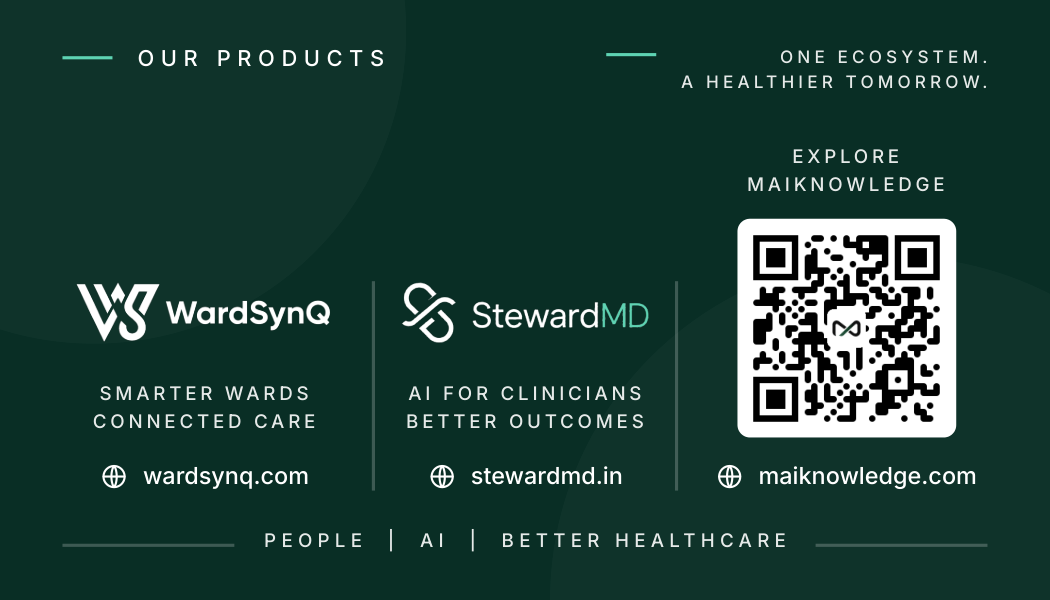
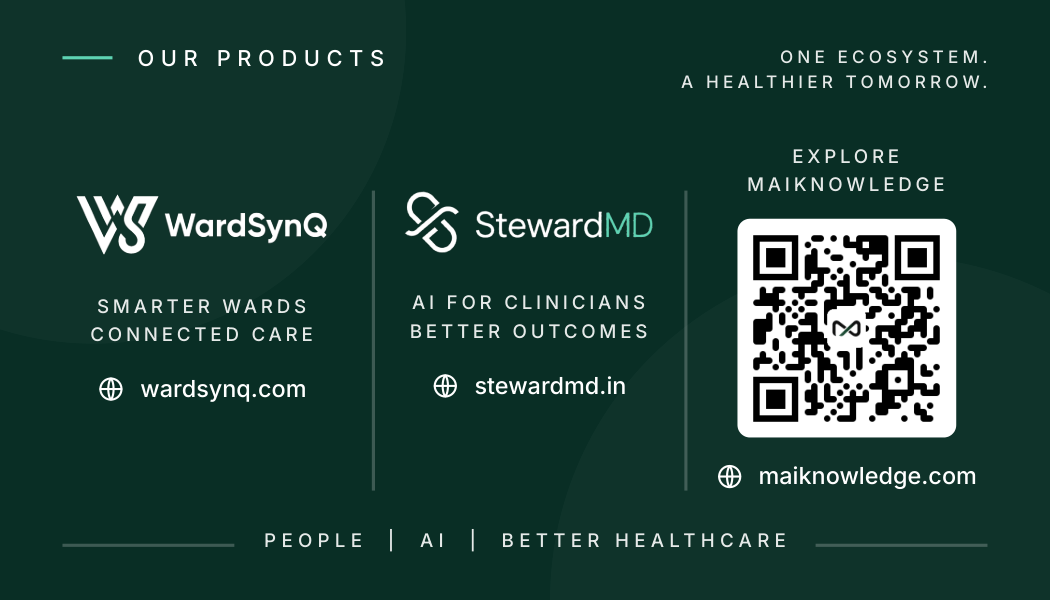
Sync card with latest artifact-editor save
No visual change: the editor wrote its own width/height freeze
attributes on unchanged elements when the card was last opened.
Rebuilt PDF and proofs from that saved state for the record.

Claude-Session: https://claude.ai/code/session_01P89aEHphTH9JvdqMgooiyC

diff --git a/vault/legal-assets/business-card/artboards/Back.dc.html b/vault/legal-assets/business-card/artboards/Back.dc.html
@@ -22,14 +22,15 @@
       <div style="font-size: 7px; font-weight: 500; letter-spacing: 0.3em; text-transform: uppercase; line-height: 9px; color: #ffffff; margin-right: -2.1px;">Our Products</div>
     </div>
     <div style="display: flex; flex-direction: row; align-items: flex-start; gap: 8px; margin-top: -0.8px;">
-      <div style="width: 16px; height: 1px; background: #5FD3B3; margin-top: 1.4px;"></div>
-      <div style="font-size: 5.5px; font-weight: 500; letter-spacing: 0.24em; text-transform: uppercase; line-height: 8px; color: #ffffff; text-align: right; white-space: pre-line; opacity: 0.9; margin-right: -1.32px;">One ecosystem.
+      
+      <div style="font-size: 5.5px; font-weight: 500; letter-spacing: 0.24em; text-transform: uppercase; line-height: 8px; color: #ffffff; text-align: right; white-space: pre-line; opacity: 0.9; margin-right: -1.32px; width: 165px; height: 14px">One ecosystem.
 A healthier tomorrow.</div>
     </div>
   </div>
+  
   <div style="position: relative; flex-grow: 1; display: flex; flex-direction: column; justify-content: center;">
     <div style="display: grid; grid-template-columns: repeat(3, minmax(0, 1fr)); gap: 0px; align-items: end;">
-      <div style="display: flex; flex-direction: column; align-items: center; text-align: center; padding: 0 8px 0 0;">
+      <div style="display: flex; flex-direction: column; align-items: center; text-align: center; padding: 0 8px 0 0; width: 89px; height: 95px">
         <img src="wardsynq-white.png" alt="WardSynQ" style="height: 20px; width: auto; display: block; margin-bottom: 12px;">
         <div style="font-size: 6px; font-weight: 500; letter-spacing: 0.2em; text-transform: uppercase; line-height: 9px; color: #ffffff; opacity: 0.9; white-space: pre-line; margin-right: -1.2px;">Smarter Wards
 Connected Care</div>
@@ -38,7 +39,7 @@ Connected Care</div>
           <span style="font-size: 7.5px; font-weight: 500; line-height: 9px; color: #ffffff;">wardsynq.com</span>
         </div>
       </div>
-      <div style="display: flex; flex-direction: column; align-items: center; text-align: center; padding: 0 8px; border-left: 1px solid rgba(255,255,255,0.22); border-right: 1px solid rgba(255,255,255,0.22);">
+      <div style="display: flex; flex-direction: column; align-items: center; text-align: center; padding: 0 8px; border-left: 1px solid rgba(255,255,255,0.22); border-right: 1px solid rgba(255,255,255,0.22); width: 83px; height: 96px">
         <img src="stewardmd-dark.png" alt="StewardMD" style="height: 20px; width: auto; display: block; margin-bottom: 12px;">
         <div style="font-size: 6px; font-weight: 500; letter-spacing: 0.2em; text-transform: uppercase; line-height: 9px; color: #ffffff; opacity: 0.9; white-space: pre-line; margin-right: -1.2px;">AI for Clinicians
 Better Outcomes</div>
@@ -59,8 +60,7 @@ MaiKnowledge</div>
         </div>
       </div>
     </div>
-  </div>
-  <div style="position: relative; display: flex; flex-direction: row; align-items: center; gap: 10px; height: 8px;">
+  </div><div style="position: relative; display: flex; flex-direction: row; align-items: center; gap: 10px; height: 8px;">
     <div style="flex-grow: 1; height: 1px; background: rgba(255,255,255,0.22);"></div>
     <div style="font-size: 6px; font-weight: 500; letter-spacing: 0.28em; text-transform: uppercase; line-height: 8px; color: #ffffff; opacity: 0.9; margin-right: -1.68px;">People &nbsp;|&nbsp; AI &nbsp;|&nbsp; Better Healthcare</div>
     <div style="flex-grow: 1; height: 1px; background: rgba(255,255,255,0.22);"></div>

diff --git a/vault/legal-assets/business-card/artboards/Main.dc.html b/vault/legal-assets/business-card/artboards/Main.dc.html
@@ -15,12 +15,12 @@
 </helmet>
 <div style="position: relative; width: 336px; height: 192px; box-sizing: border-box; padding: 18px 20px 14px 20px; background: #ffffff; color: #111111; overflow: hidden; display: flex; flex-direction: column; align-items: stretch;">
   <img src="infinity.png" alt="" style="position: absolute; right: -22px; top: 74px; width: 151px; height: auto; opacity: 0.08; display: block; pointer-events: none;">
-  <div style="position: relative; display: flex; flex-direction: row; justify-content: space-between; align-items: flex-start; height: 32px;">
+  <div style="position: relative; display: flex; flex-direction: row; justify-content: space-between; align-items: flex-start; height: 38px; width: 300px">
     <div style="position: relative; width: 240px; height: 32px;">
-      <img src="maik.png" alt="MaiK" style="position: absolute; left: 0; bottom: 0; height: 32px; width: auto; display: block;">
+      <img src="maik.png" alt="MaiK" style="position: absolute; left: 0; bottom: 0px; height: 32px; width: auto; display: block">
       <div style="position: absolute; left: 101px; bottom: -6.7px; display: flex; flex-direction: row; align-items: baseline; gap: 4px; white-space: nowrap;">
-        <span style="font-family: 'Dancing Script', 'Brush Script MT', 'Segoe Script', cursive; font-weight: 400; font-size: 38px; line-height: 38px; color: #1D5FB4; letter-spacing: -0.005em;">nowledge</span>
-        <span style="font-size: 7px; font-weight: 500; letter-spacing: 0.16em; line-height: 7px; color: #111111;">LLP</span>
+        
+        <span style="font-family: 'Dancing Script', 'Brush Script MT', 'Segoe Script', cursive; font-weight: 400; font-size: 38px; line-height: 38px; color: #1D5FB4; letter-spacing: -0.005em;">nowledge</span><span style="font-size: 7px; font-weight: 500; letter-spacing: 0.16em; line-height: 7px; color: #111111;">LLP</span>
       </div>
     </div>
     <div style="display: flex; flex-direction: row; gap: 7px; align-items: flex-start; margin-top: -2.4px; margin-right: -1.56px;">
@@ -30,8 +30,8 @@ Into
 Impact</div>
     </div>
   </div>
-  <div style="position: relative; font-size: 6.5px; font-weight: 500; letter-spacing: 0.24em; color: #0B5B4A; text-transform: uppercase; line-height: 8px; margin-top: 4px; margin-left: -0.5px;">Merging AI with Infinite Knowledge</div>
-  <div style="position: relative; display: flex; flex-direction: column; align-items: flex-start; margin-top: 13.5px;">
+  
+  <div style="position: relative; font-size: 6.5px; font-weight: 500; letter-spacing: 0.24em; color: #0B5B4A; text-transform: uppercase; line-height: 8px; margin-top: 4px; margin-left: -0.5px; width: 299px; height: 8px">Merging AI with Infinite Knowledge</div><div style="position: relative; display: flex; flex-direction: column; align-items: flex-start; margin-top: 13.5px;">
     <div style="font-size: 15px; font-weight: 600; letter-spacing: -0.015em; line-height: 17px; color: #111111; margin-left: -1px;">Dr Manoj Kumar K</div>
     <div style="font-size: 7px; font-weight: 500; letter-spacing: 0.2em; text-transform: uppercase; line-height: 9px; color: #0B5B4A; margin-top: 3px;">Founder &amp; Managing Partner</div>
     <div style="width: 28px; height: 1.5px; background: #0B5B4A; margin-top: 6px;"></div>
